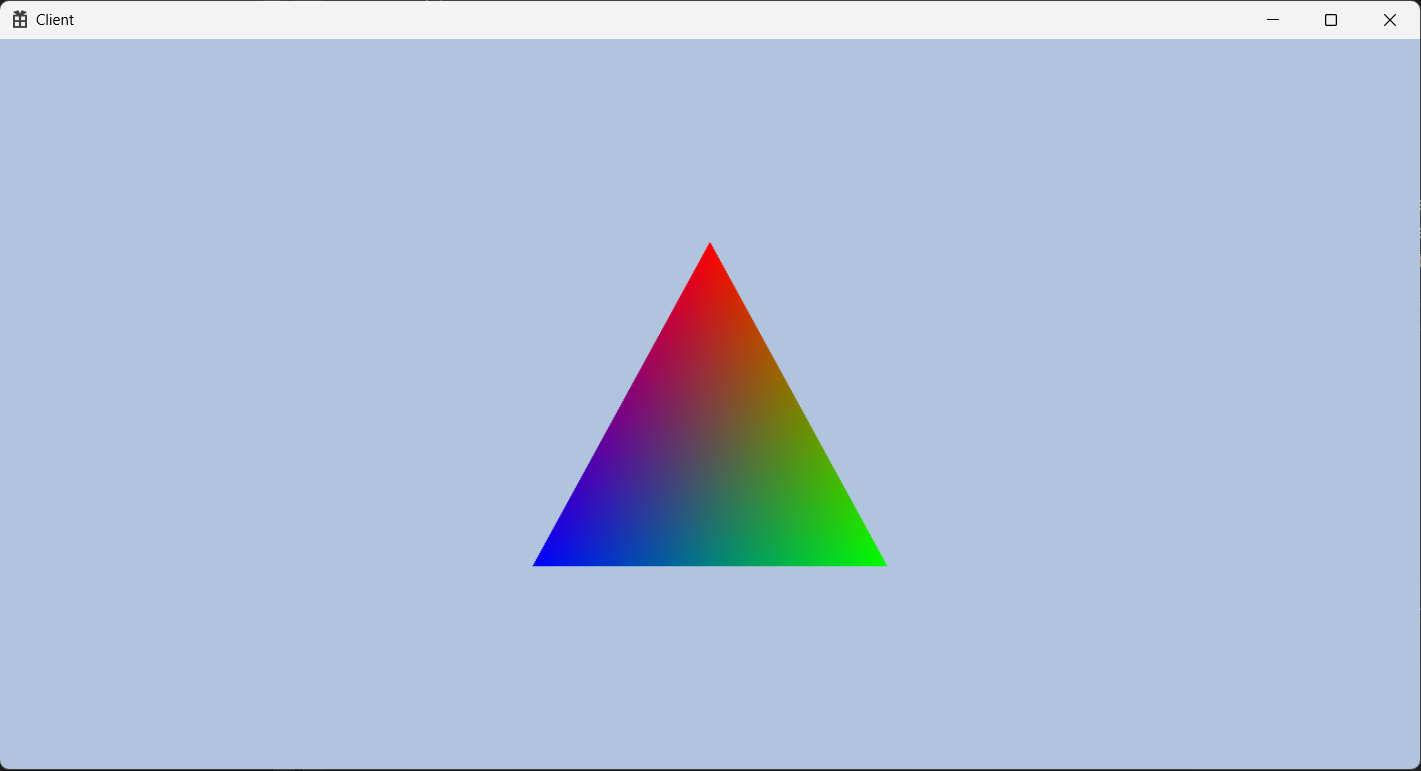
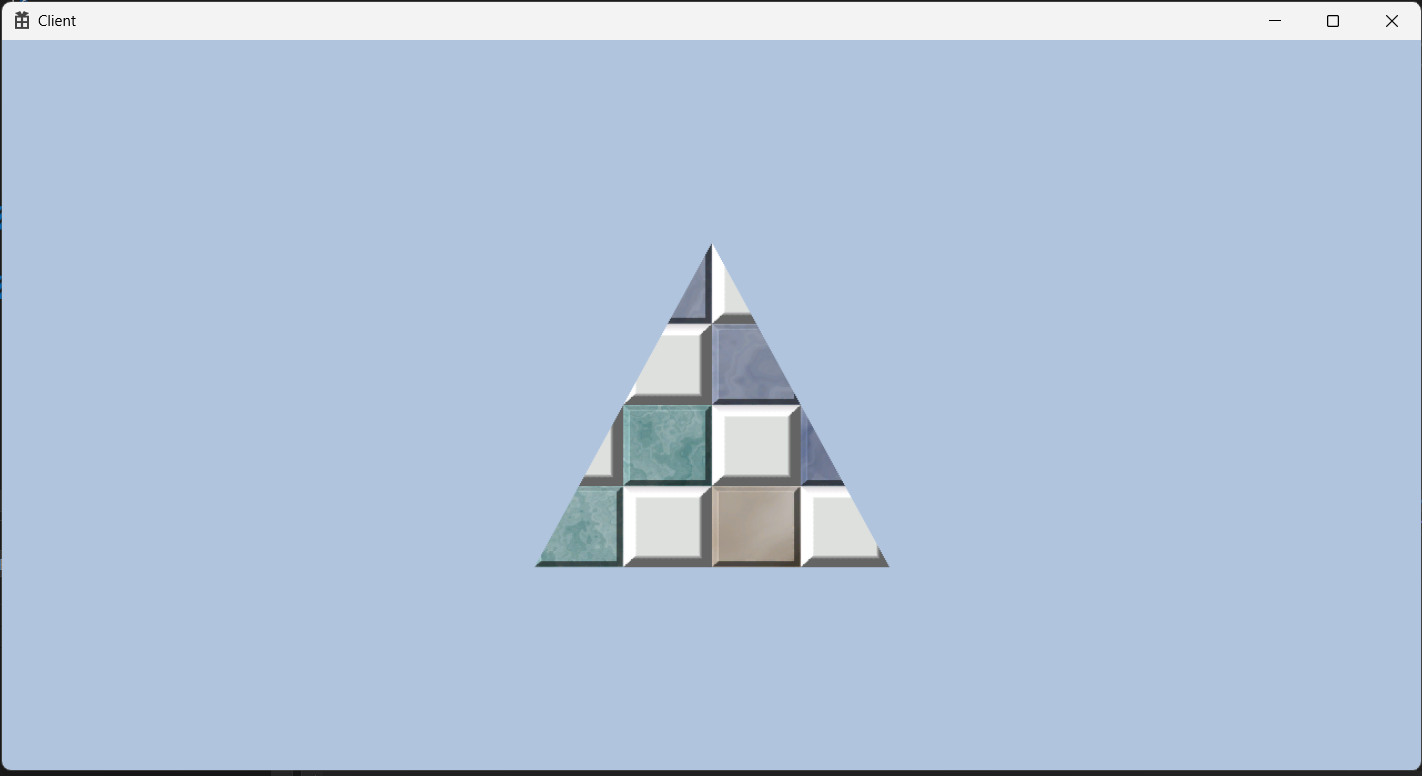
24.02.02 텍스처 로드

diff --git a/Engine/Private/Renderer.cpp b/Engine/Private/Renderer.cpp
@@ -223,9 +223,9 @@ void CRenderer::AddTo_RenderGroup(RENDERGROUP eRenderGroup, CGameObject* pGameOb
 	Safe_AddRef(pGameObject);
 }
 
-void CRenderer::AddTo_RenderGroup(UINT IsFirst, UINT eBlendModeEnum, UINT eRootsigEnum, UINT eShaderTypeEnum,
-	CGameObject* pGameObject)
+void CRenderer::AddTo_RenderGroup(UINT IsFirst, UINT eBlendModeEnum, UINT eShaderTypeEnum, UINT eParamComboEnum,
+                                  CGameObject* pGameObject)
 {
-	m_RenderGroup[IsFirst][eBlendModeEnum][eRootsigEnum][eShaderTypeEnum].push_back(pGameObject);
+	m_RenderGroup[IsFirst][eBlendModeEnum][eParamComboEnum][eShaderTypeEnum].push_back(pGameObject);
 	Safe_AddRef(pGameObject);
 }

diff --git a/Engine/Private/Triangle.cpp b/Engine/Private/Triangle.cpp
@@ -69,7 +69,7 @@ void CTriangle::Late_Tick(_float fDeltaTime)
 
 void CTriangle::Render_Tick()
 {	
-	m_pRendererCom->AddTo_RenderGroup(RENDER_AFTER, NOBLEND, SHADERTYPE_SIMPLE, PARAM_SIMPLE, this);
+	m_pRendererCom->AddTo_RenderGroup(RENDER_AFTER, NOBLEND, PARAM_SAMPLER, SHADERTYPE_SIMPLE2, this);
 }
 
 HRESULT CTriangle::Free()

diff --git a/README.md b/README.md
@@ -1,6 +1,6 @@
 # MyDX12Engine
  
-마지막 결과물 스크린샷 : 24.01.29
-나만의 엔진 구조를 유지하면서 삼각형을 띄웠다
+마지막 결과물 스크린샷 : 24.02.02
+버텍스에 컬러가 아닌 UV좌표를 입력하여 DDS 텍스처를 띄움
 
 ![Alt text](OutputScreenshot.png)
